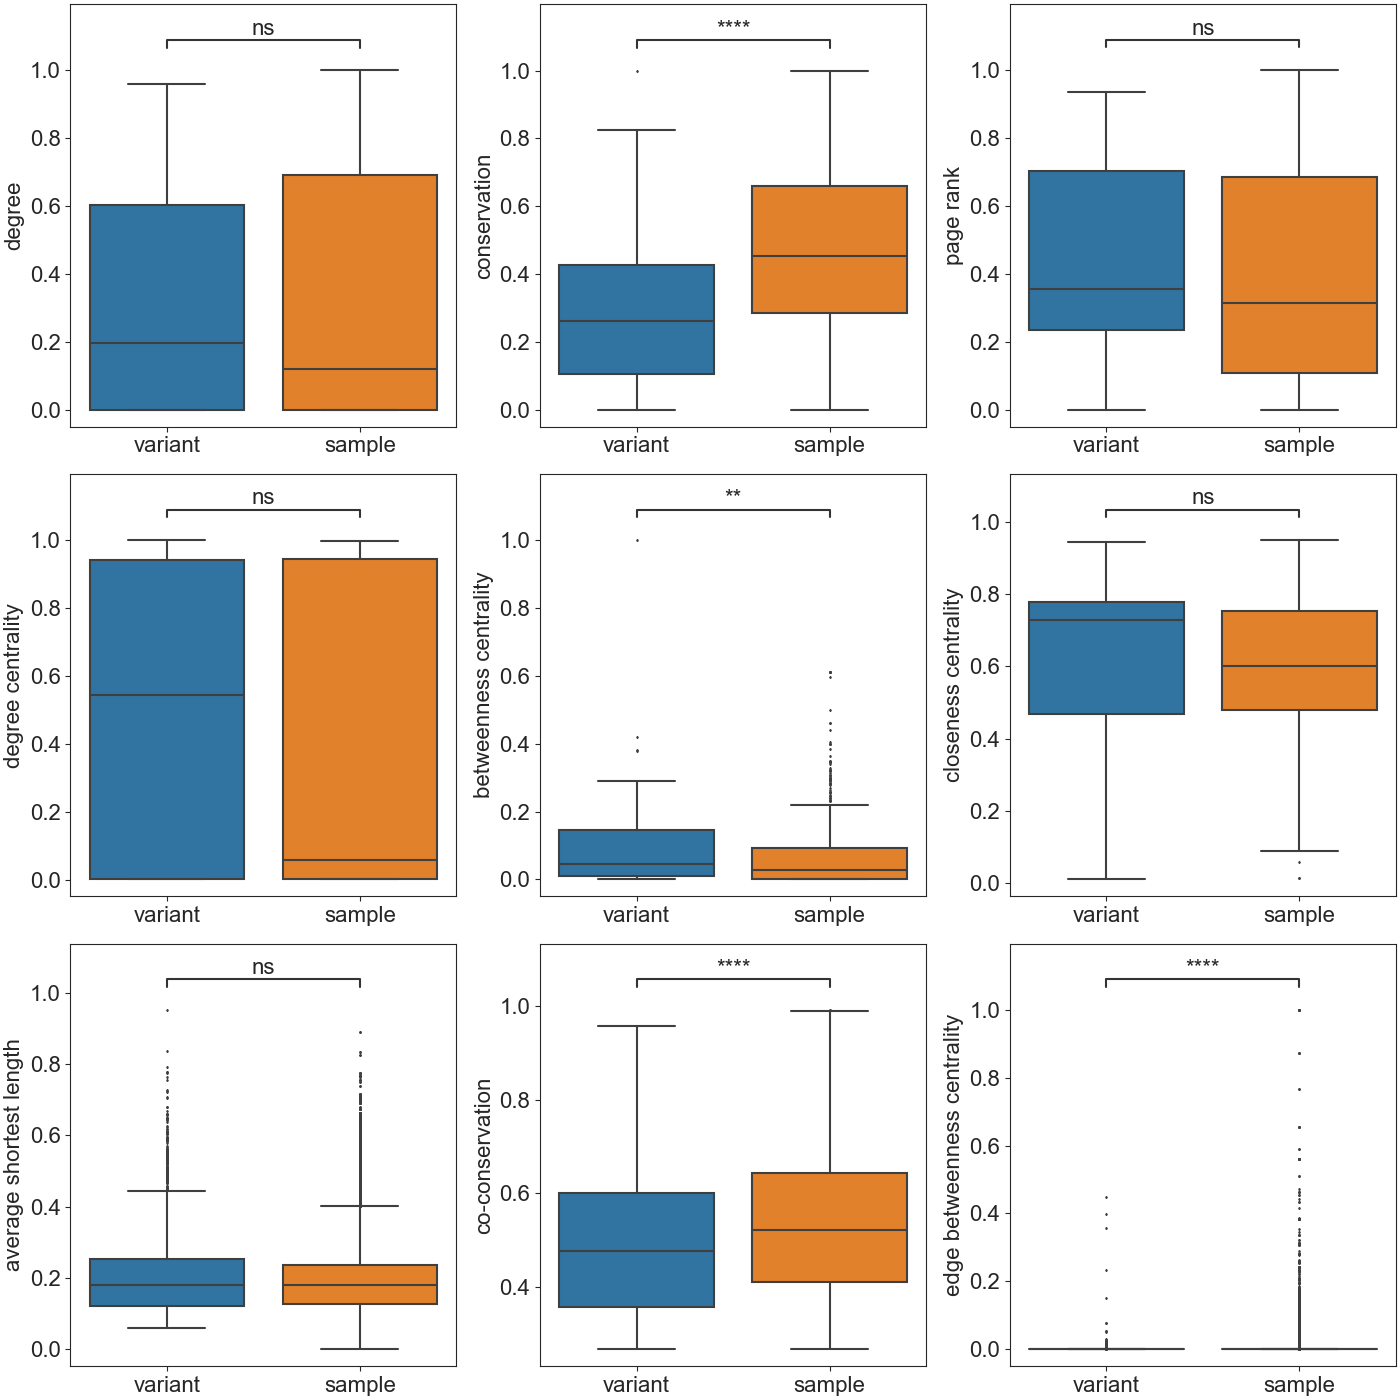
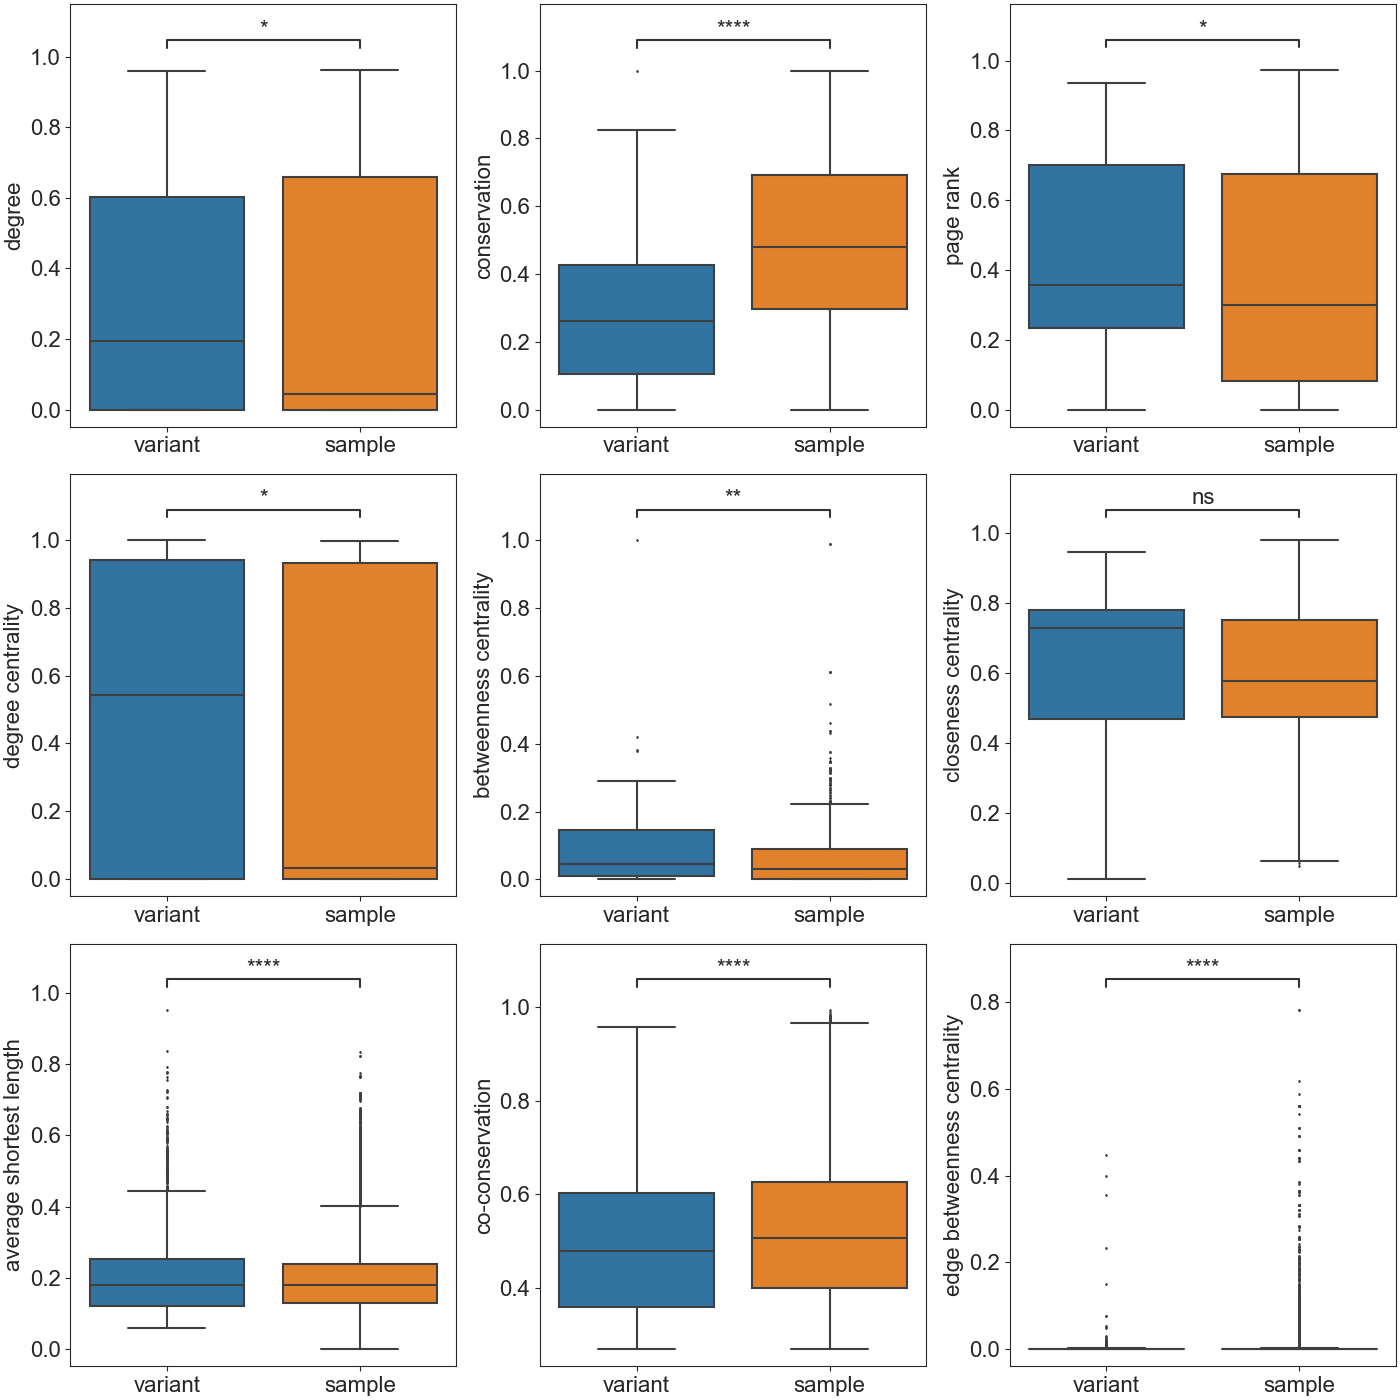
fix sample method;

diff --git a/v2/output_procon_analysis.py b/v2/output_procon_analysis.py
@@ -127,6 +127,7 @@ class AnalysisMutationGroup:
     def resample_aas(self, aas, N=1000):
         # 重采样
         positions = list(set(self.positions) - set(aas))
+        positions = sorted(positions)
         positions = pd.Series(positions)
         log.debug("开始采样，采样数目为%s", N)
         # sample_aas = [positions.sample(n=len(aas), random_state=self.seed + i).tolist() for i in range(N)]
@@ -141,6 +142,7 @@ class AnalysisMutationGroup:
         """
         groups = self.aa_groups
         positions = list(set(self.positions) - set(self.non_duplicated_aas_positions))
+        positions = sorted(positions)
         positions = pd.Series(positions)
 
         # 重采样
@@ -877,7 +879,7 @@ class ProConNetwork:
         # self._boxplot_for_all_kinds("B.1.617.2(Delta)")
 
         # 以毒株为单位的图
-        self._group_plot_with_node()
+        # self._group_plot_with_node()
 
         # 废弃
         #
